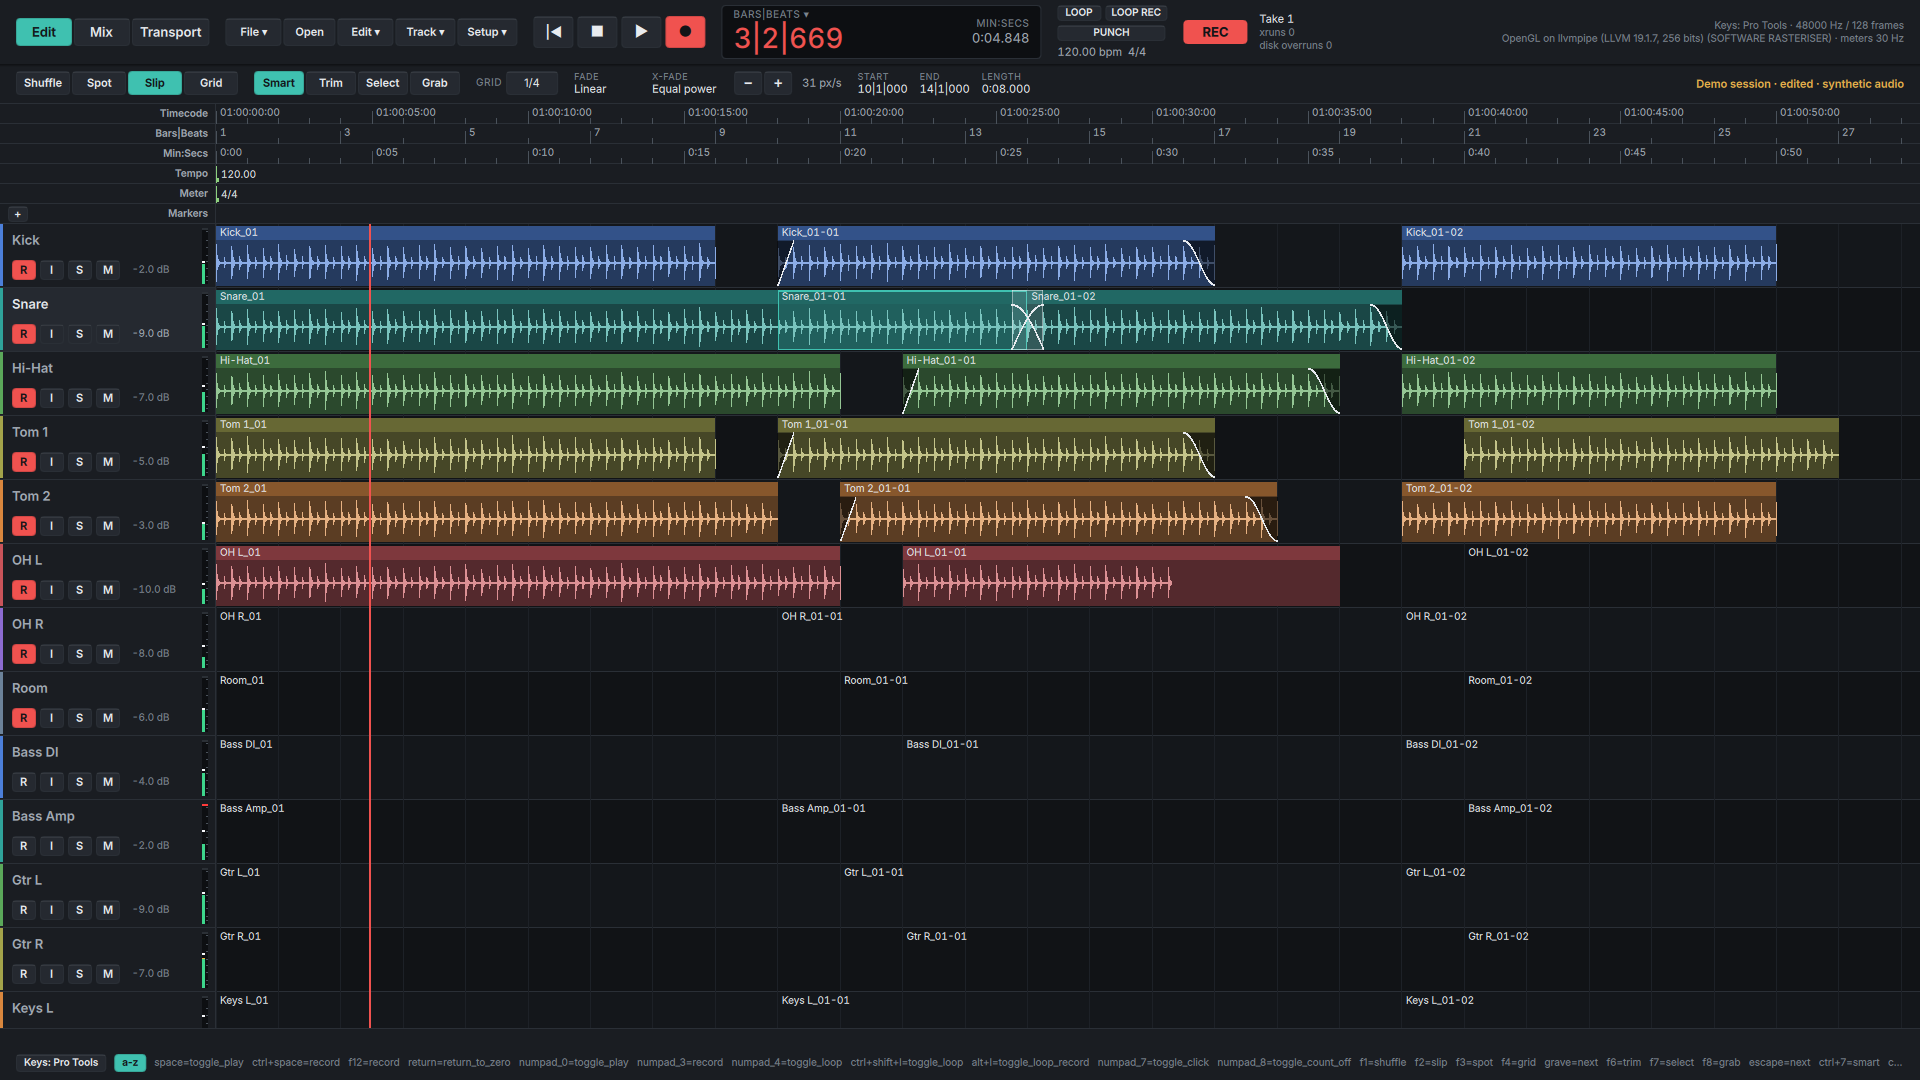
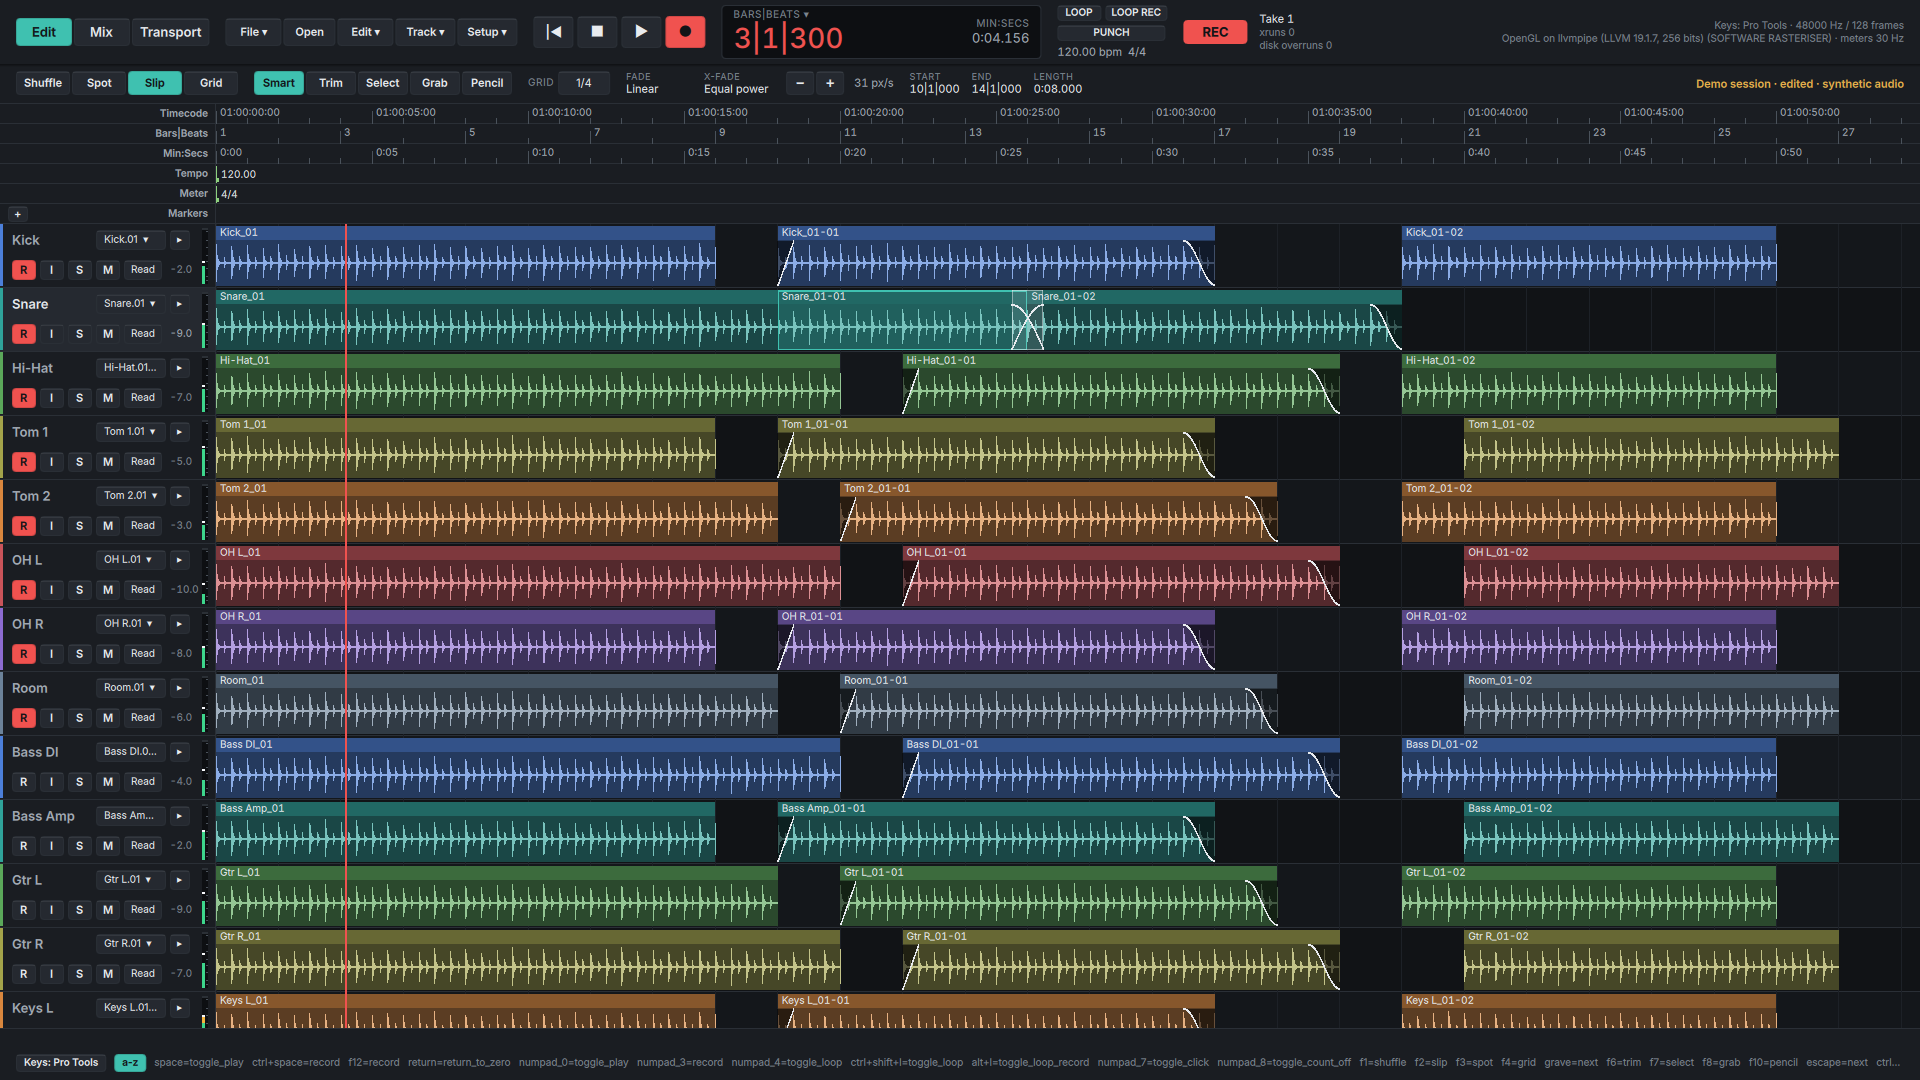
Automation mode on the Edit track header; track.step_automation_mode (ctrl+alt+m)

diff --git a/ui/qt/qml/EditWindow.qml b/ui/qt/qml/EditWindow.qml
@@ -302,6 +302,7 @@ Item {
                     height: edit.session.trackHeight
                     visible: y + height >= 0 && y <= headers.height
                     color: selected ? Theme.raised : Theme.panel
+                    z: headerAutoMode.open ? 100 : 0
 
                     // Right-click, as Pro Tools' track name menu: the track
                     // is selected and the Track menu acts on it.
@@ -405,10 +406,23 @@ Item {
                             activeColour: Theme.mute
                             onClicked: edit.shell.invoke("track.toggle_mute", header.index)
                         }
+                        // The automation mode, as on the Mix strip, so a lane
+                        // can be armed to write without leaving the Edit window.
+                        AutomationModeButton {
+                            id: headerAutoMode
+                            objectName: "editAutoMode" + header.index
+                            visible: edit.mixer !== null
+                            width: 38; height: 20
+                            mixer: edit.mixer
+                            track: header.index
+                            mode: header.index < edit.session.automationModes.length
+                                  ? edit.session.automationModes[header.index] : "Read"
+                        }
                         Text {
                             anchors.verticalCenter: parent.verticalCenter
-                            leftPadding: Theme.space2
-                            text: edit.session.gainText(edit.session.gains[header.index] || 0) + " dB"
+                            leftPadding: Theme.space1
+                            // No unit: the automation selector took its room.
+                            text: edit.session.gainText(edit.session.gains[header.index] || 0)
                             color: header.selected ? Theme.textSecondary : Theme.textTertiary
                             font { family: Theme.fontFamily; pixelSize: Theme.textCaption; features: { "tnum": 1 } }
                         }

diff --git a/ui/qt/tests/test_edit.cpp b/ui/qt/tests/test_edit.cpp
@@ -2174,6 +2174,34 @@ int test_input_monitor() {
     return 0;
 }
 
+// track.step_automation_mode: Off, Read, Touch, Latch, Write and round to
+// Off. Trim is skipped, because the engine refuses it; a key that landed on
+// it would be a key that does nothing.
+int test_step_automation_mode() {
+    FlatPeaks peaks;
+    std::string why;
+    Id playlist = 0, region = 0;
+    ModelDocument doc(midi_session(1, playlist, region));
+    SessionModel session(doc, peaks, false);
+    EditController& c = session.controller();
+    const Id audio = doc.snapshot().edit->tracks[0]->id;
+    const auto mode = [&]() { return doc.snapshot().mix.find(audio)->automation; };
+    OK(mode() == AutomationMode::Read);
+    const AutomationMode order[] = {AutomationMode::Touch, AutomationMode::Latch,
+                                    AutomationMode::Write, AutomationMode::Off,
+                                    AutomationMode::Read};
+    for (const AutomationMode want : order) {
+        OK(c.step_automation_mode(0, why) && mode() == want);
+    }
+    OK(!c.step_automation_mode(-1, why) && why == "no track is selected");
+    // The command runs on the selected track, or the one it is aimed at.
+    OK(session.automationModes()[0] == "Read");
+    session.selectTrack(0);
+    OK(c.step_automation_mode(c.selection().track, why) &&
+       session.automationModes()[0] == "Touch");
+    return 0;
+}
+
 // daw.model.session_mgmt in the window: Save As goes on in a new folder
 // under the new name once the engine says it moved there, the old file as
 // it was; a name already taken is refused; Save Copy In writes a copy and
@@ -2266,7 +2294,8 @@ int main(int argc, char** argv) {
         test_first_save_keeps_the_sessions_name() ||
         test_save_failures() || test_autosave_names_agree() ||
         test_midi_sequence_files() ||
-        test_midi_sequence_cleanup_follow_ups() || test_input_monitor() || test_save_as_and_copy()) {
+        test_midi_sequence_cleanup_follow_ups() || test_input_monitor() ||
+        test_step_automation_mode() || test_save_as_and_copy()) {
         return 1;
     }
     std::printf("ui edit: %d checks passed\n", checks);

diff --git a/ui/qt/src/scenes/edit_automation_mode.cpp b/ui/qt/src/scenes/edit_automation_mode.cpp
@@ -1,0 +1,46 @@
+// SPDX-License-Identifier: GPL-3.0-or-later
+//
+// The automation mode on the Edit window's track headers: the first four
+// tracks stepped with track.step_automation_mode (the command the
+// ctrl+alt+m key sends) to Touch, Latch, Write and Off, and the first
+// header's list open.
+#include <QQuickItem>
+#include <cstdio>
+
+#include "screenshot_scene.h"
+
+namespace sonora::ui {
+namespace {
+
+QQuickItem* find(QQuickItem* root, const QString& name) {
+    if (root == nullptr) return nullptr;
+    if (root->objectName() == name) return root;
+    for (QQuickItem* c : root->childItems()) {
+        if (QQuickItem* hit = find(c, name)) return hit;
+    }
+    return nullptr;
+}
+
+const ShotRegistrar registrar{[] {
+    ShotScene s;
+    s.name = QStringLiteral("edit-automation-mode");
+    s.window = QStringLiteral("edit");
+    s.take = false;
+    s.apply = [](ShotContext& c) {
+        when_open(c, [](ShotContext& c) {
+            const QString step = QStringLiteral("track.step_automation_mode");
+            // Read is the default: one step is Touch, two Latch, three Write
+            // and four Off for the tracks 0..3 (track 0 stays on Touch).
+            for (int t = 0; t < 4 && t < c.session.trackCount(); ++t) {
+                for (int n = 0; n < (t == 3 ? 4 : t + 1); ++n) c.model.invoke(step, t);
+            }
+            QQuickItem* sel = find(c.view.rootObject(), QStringLiteral("editAutoMode0"));
+            if (sel == nullptr) std::fprintf(stderr, "sonora-ui: no header selector found\n");
+            else sel->setProperty("open", true);
+        });
+    };
+    return s;
+}()};
+
+}  // namespace
+}  // namespace sonora::ui

diff --git a/ui/keymap/tests/test_keymap.cpp b/ui/keymap/tests/test_keymap.cpp
@@ -676,6 +676,7 @@ int test_profile_corrections() {
         {"protools.json", "alt+f", "zoom.fit_selection"},
         {"protools.json", "alt+a", "zoom.fit_session"},
         {"protools.json", "ctrl+space", "transport.record"},
+        {"protools.json", "ctrl+alt+m", "track.step_automation_mode"},
         {"protools.json", "alt+shift+d", "track.duplicate"},  // Duplicate Tracks (ADR-0023)
         {"protools.json", "cmd+backslash", "track.playlist_new"},  // ADR-0026, unverified
         {"protools.json", "cmd+alt+\\", "track.playlist_duplicate"},
@@ -699,6 +700,7 @@ int test_profile_corrections() {
         {"logic.json", "alt+shift+r", nullptr},  // Region Inspector Float
         {"logic.json", "ctrl+r", "track.toggle_arm"},
         {"logic.json", "ctrl+i", "track.toggle_input_monitor"},
+        {"logic.json", "ctrl+alt+m", "track.step_automation_mode"},
         {"logic.json", "up", "track.select_previous"},
         {"logic.json", "down", "track.select_next"},
     };

diff --git a/ui/qt/src/edit_controller.cpp b/ui/qt/src/edit_controller.cpp
@@ -1554,6 +1554,20 @@ bool EditController::set_automation_mode(int index, AutomationMode mode, std::st
     return submit(SetMix{m}, why);
 }
 
+bool EditController::step_automation_mode(int index, std::string& why) {
+    TrackMix m;
+    if (!mix_target(snapshot(), index, m, why)) return false;
+    switch (m.automation) {
+        case AutomationMode::Off: m.automation = AutomationMode::Read; break;
+        case AutomationMode::Read: m.automation = AutomationMode::Touch; break;
+        case AutomationMode::Touch: m.automation = AutomationMode::Latch; break;
+        case AutomationMode::Latch: m.automation = AutomationMode::Write; break;
+        case AutomationMode::Write:
+        case AutomationMode::Trim: m.automation = AutomationMode::Off; break;
+    }
+    return submit(SetMix{m}, why);
+}
+
 bool EditController::toggle_input_monitor(int index, std::string& why) {
     TrackMix m;
     if (!mix_target(snapshot(), index, m, why)) return false;

diff --git a/contracts/api/include/sonora/command.h b/contracts/api/include/sonora/command.h
@@ -133,6 +133,8 @@ inline const std::vector<CommandSpec>& command_catalog() {
         {"track.toggle_solo", CommandTarget::Track, "Toggle solo on a track"},
         {"track.toggle_input_monitor", CommandTarget::Track,
          "Toggle input monitoring on a track"},
+        {"track.step_automation_mode", CommandTarget::Track,
+         "Step a track's automation mode: Off, Read, Touch, Latch, Write"},
         {"track.select", CommandTarget::Track, "Make a track the selected track"},
         {"track.select_next", CommandTarget::None, "Select the next track down"},
         {"track.select_previous", CommandTarget::None, "Select the next track up"},

diff --git a/ui/qt/src/session_model.cpp b/ui/qt/src/session_model.cpp
@@ -350,6 +350,11 @@ void SessionModel::installCommands(CommandRegistry& local) {
                                          why);
     });
 
+    simple("track.step_automation_mode", [this](const CommandContext& ctx, Why& why) {
+        return ctl_.step_automation_mode(ctx.has_target() ? ctx.target : ctl_.selection().track,
+                                         why);
+    });
+
     // Saving is the engine's once it has session commands (session_files.h);
     // until then the interface writes the file itself.
     simple("app.save", [this](const CommandContext&, Why& why) { return saveSession(why); });

diff --git a/ui/qt/src/edit_controller.h b/ui/qt/src/edit_controller.h
@@ -410,6 +410,9 @@ public:
     // not Input, so it goes to Input. Refused on a MIDI or instrument
     // track, whose engine track carries no audio of its own (ADR-0014 M-1).
     bool toggle_input_monitor(int track, std::string& why);
+    // Off, Read, Touch, Latch, Write and round to Off. Trim is skipped (the
+    // engine refuses it); a track already on Trim steps to Off.
+    bool step_automation_mode(int track, std::string& why);
     bool set_bus_gain(float db, std::string& why);
 
     // The end of the last region, or one minute when the session is empty.
